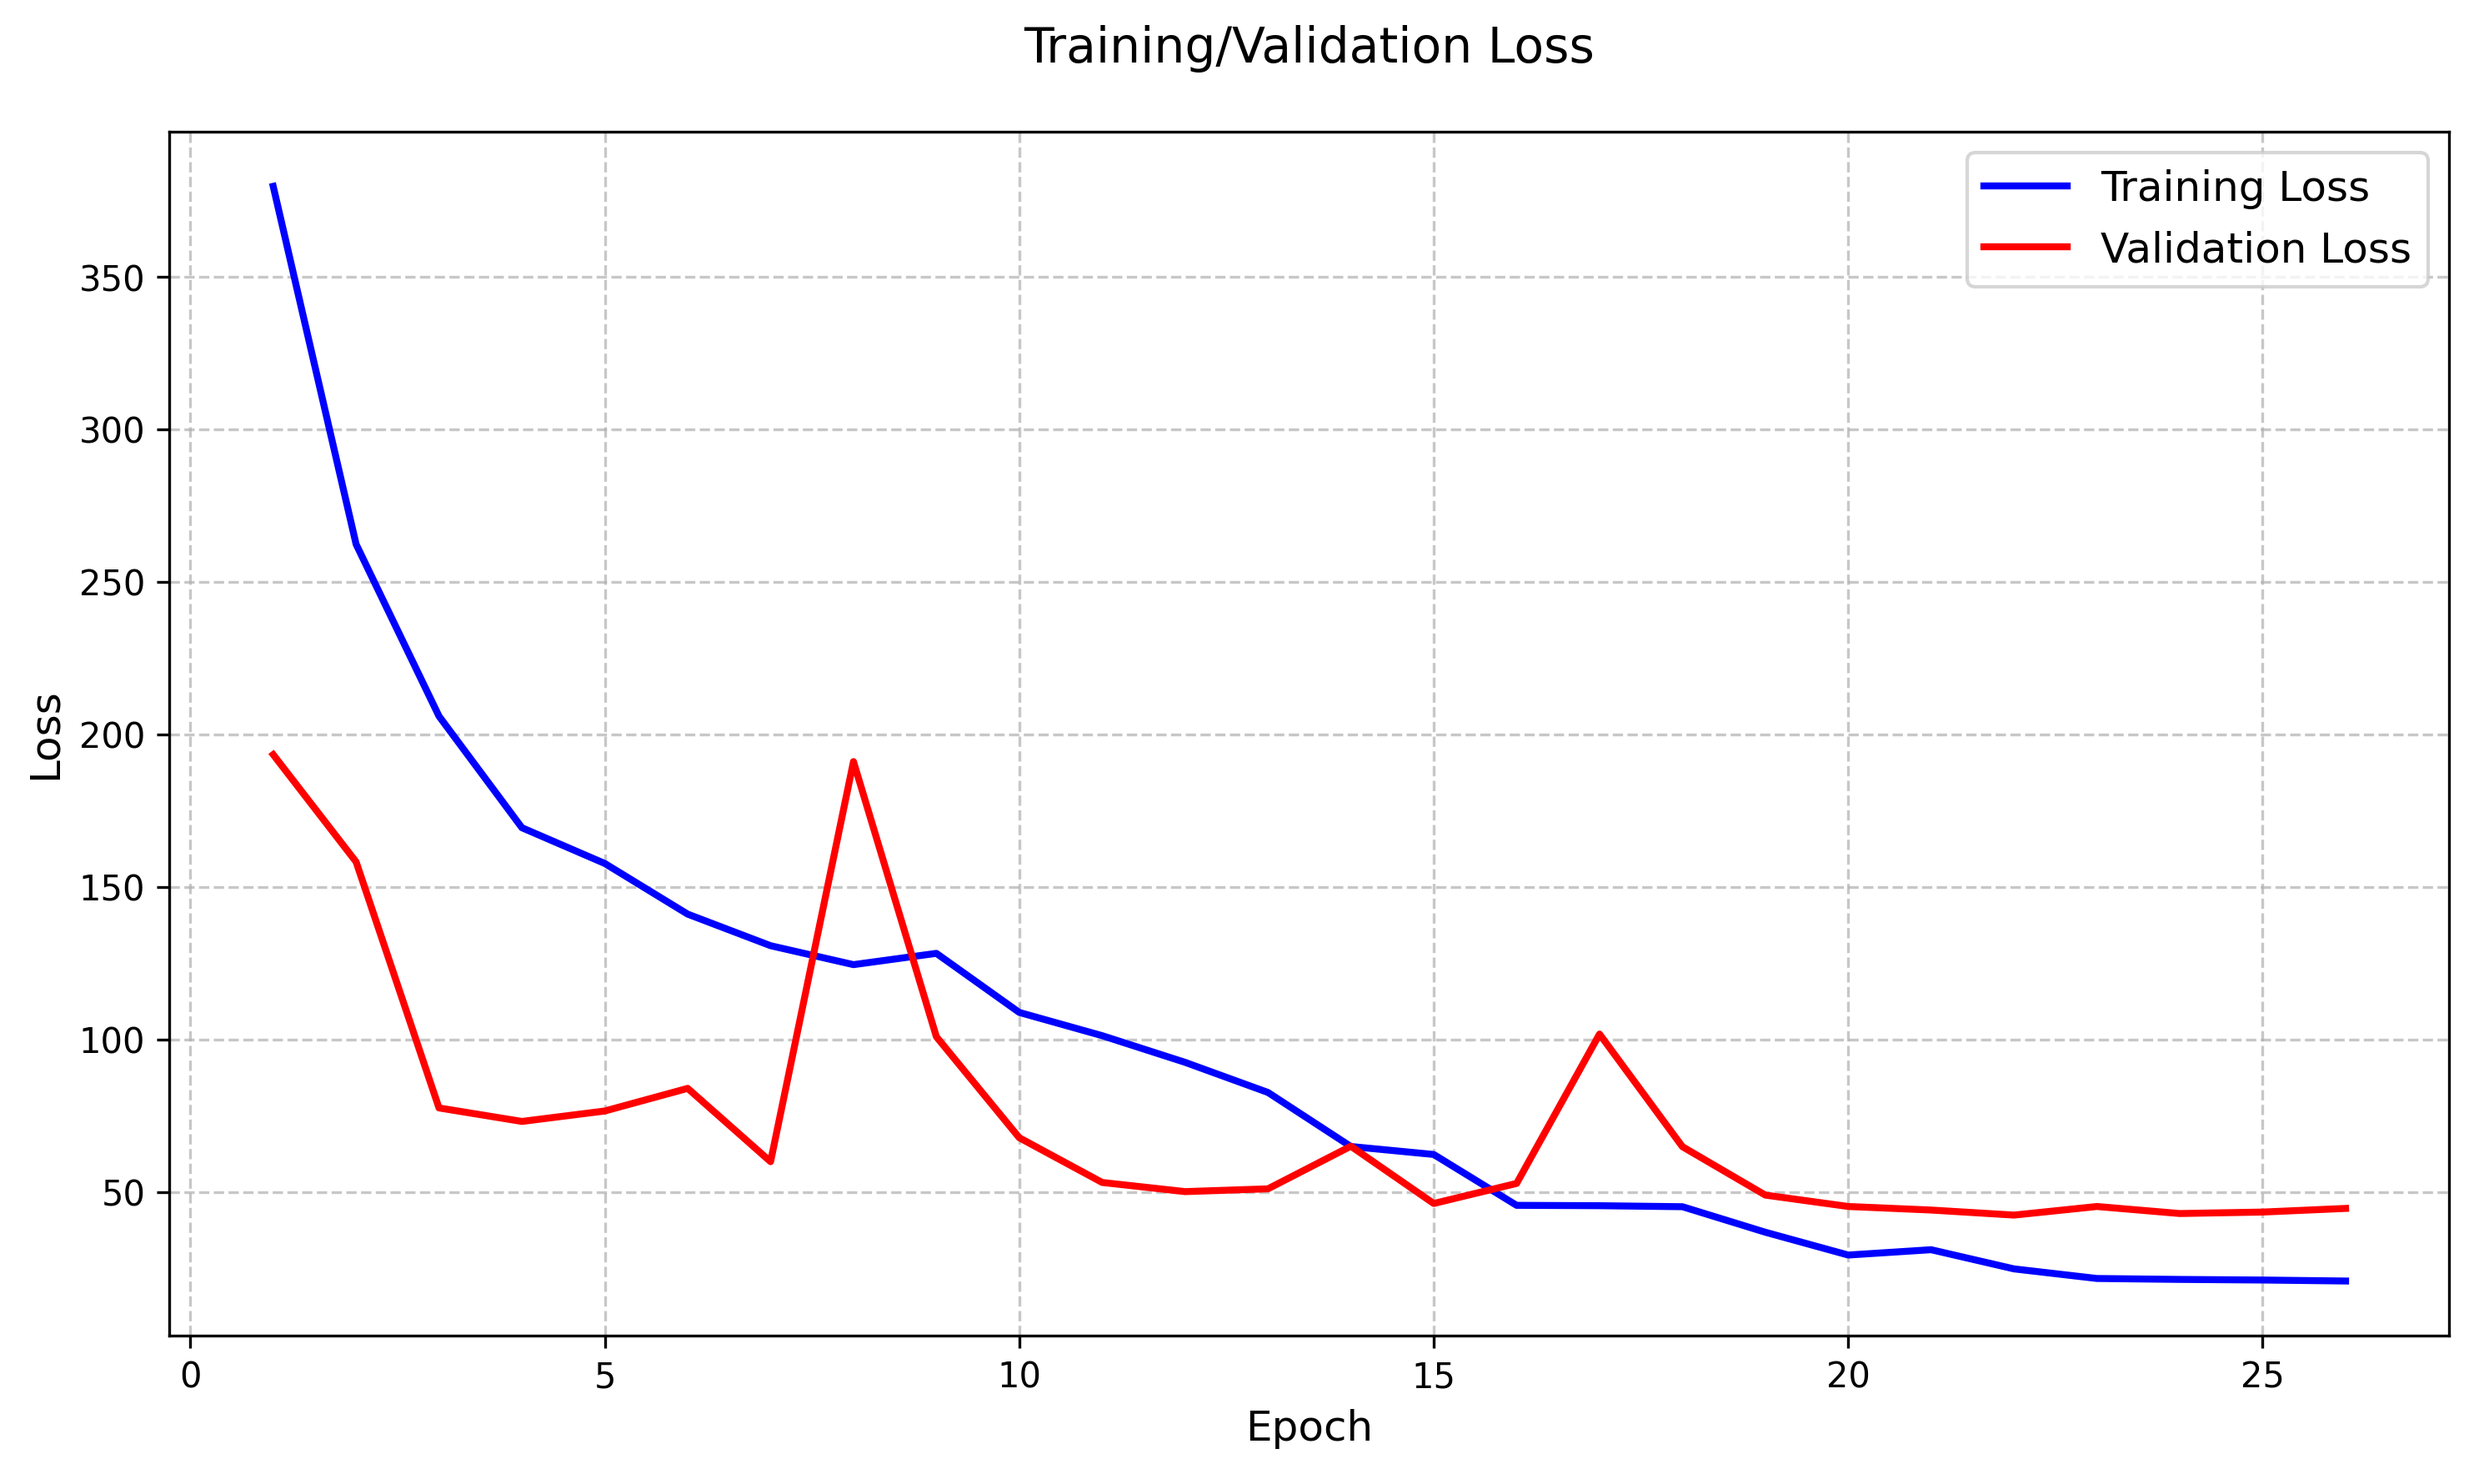
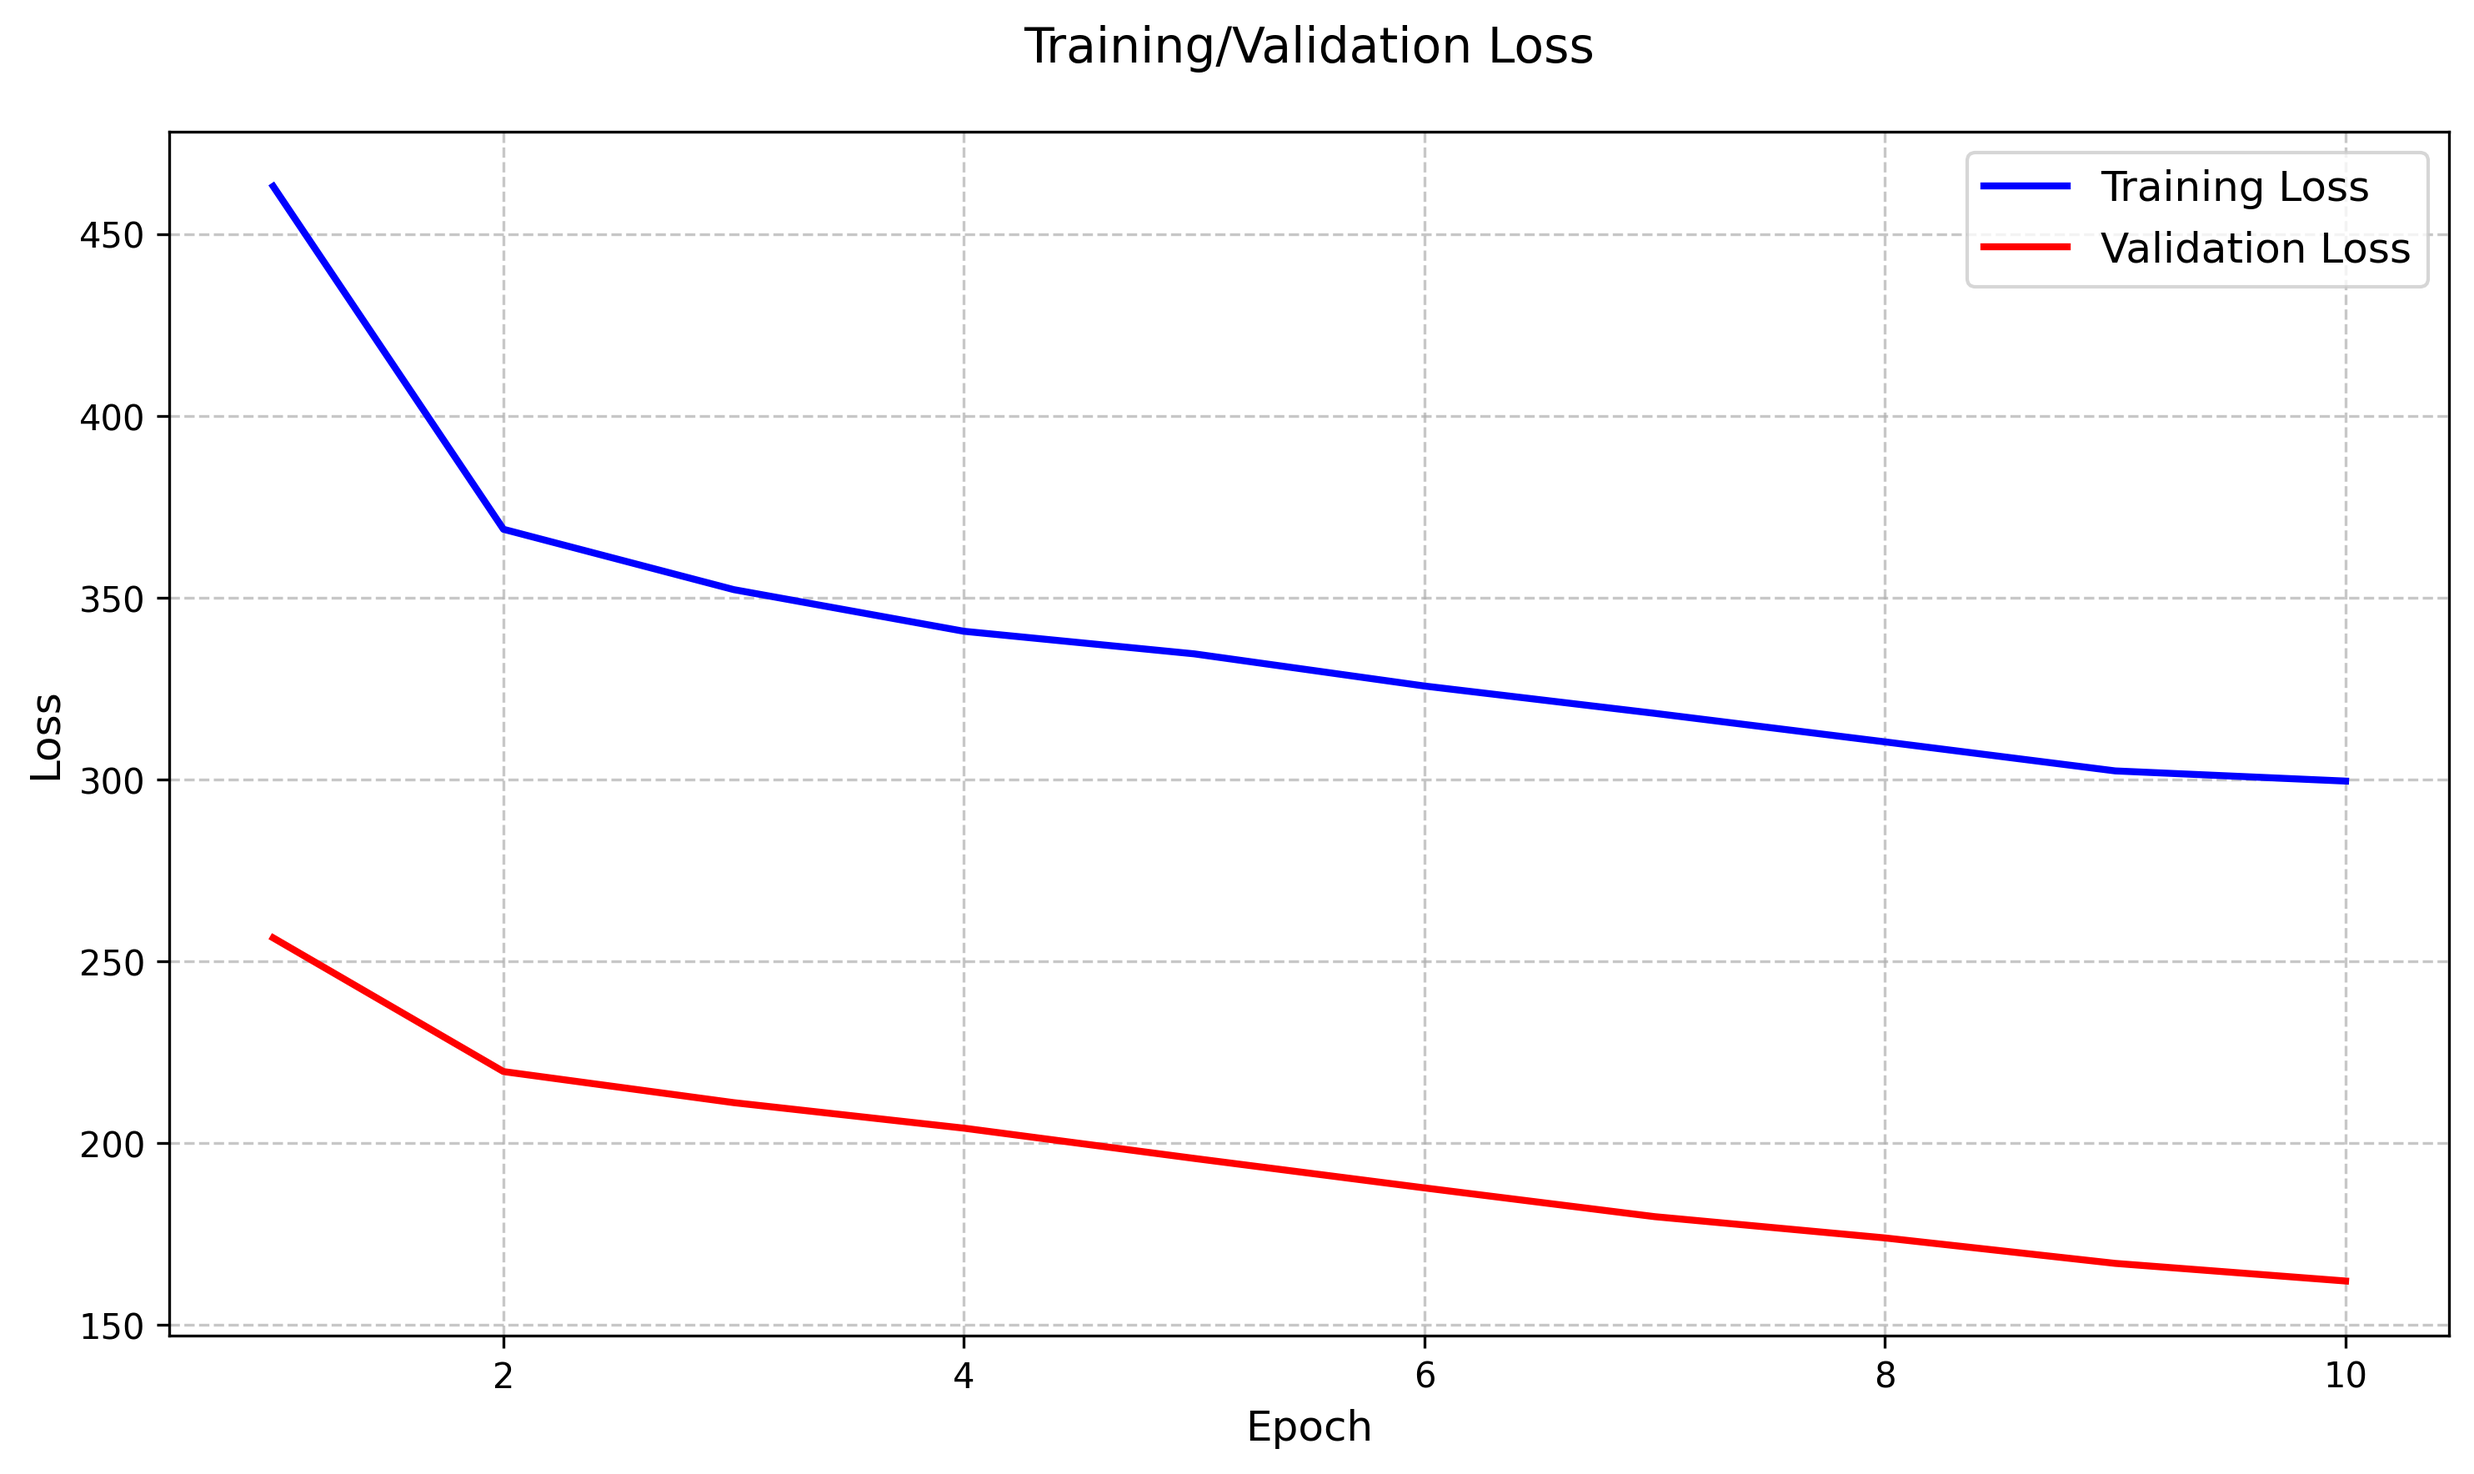
support multi_task_model

diff --git a/train.py b/train.py
@@ -4,18 +4,29 @@ from tqdm import tqdm
 import logging
 import matplotlib.pyplot as plt
 from torch.optim.lr_scheduler import ReduceLROnPlateau
-from loss import NutritionLoss, MSELoss
 
 class Trainer:
-    def __init__(self, model, train_loader, val_loader, device='cpu', 
-                 learning_rate=1e-4, weight_decay=1e-5):
+    def __init__(self, model, train_loader, val_loader, loss, device=torch.device('cpu'), 
+                 learning_rate=1e-4, weight_decay=1e-5, use_depth=True):
+        """
+        Args:
+            model: The model to train.
+            train_loader: DataLoader for training data.
+            val_loader: DataLoader for validation data.
+            device: Device to run the model on.
+            learning_rate: Learning rate for the optimizer.
+            weight_decay: Weight decay for the optimizer.
+            use_depth: Whether to use depth images in training.
+        """
         self.model = model.to(device)
         self.train_loader = train_loader
         self.val_loader = val_loader
         self.device = device
+        self.use_depth = use_depth
         
         # self.loss = NutritionLoss()
-        self.loss = MSELoss()
+        # self.loss = MSELoss()
+        self.loss = loss
         self.optimizer = optim.AdamW(
             model.parameters(), 
             lr=learning_rate, 
@@ -75,12 +86,15 @@ class Trainer:
         progress_bar = tqdm(self.train_loader, desc=f"Epoch {epoch}")
         
         for batch in progress_bar:
-            rgb_images = batch['rgb_image'].to(self.device)
-            depth_images = batch['depth_image'].to(self.device)
+            rgb_images = batch['rgb_image'].to(self.device)                
             targets = batch['nutritional_values'].to(self.device)
             
             self.optimizer.zero_grad()
-            outputs = self.model(rgb_images, depth_images)
+            if self.use_depth:
+                depth_images = batch['depth_image'].to(self.device)
+                outputs = self.model(rgb_images, depth_images)
+            else:
+                outputs = self.model(rgb_images)
             loss = self.loss(outputs, targets)
             loss.backward()
             self.optimizer.step()
@@ -101,10 +115,14 @@ class Trainer:
         with torch.no_grad():
             for batch in progress_bar:
                 rgb_images = batch['rgb_image'].to(self.device)
-                depth_images = batch['depth_image'].to(self.device)
+                
                 targets = batch['nutritional_values'].to(self.device)
                 
-                outputs = self.model(rgb_images, depth_images)
+                if self.use_depth:
+                    depth_images = batch['depth_image'].to(self.device)
+                    outputs = self.model(rgb_images, depth_images)
+                else:
+                    outputs = self.model(rgb_images)
                 loss = self.loss(outputs, targets)
                 val_loss += loss.item()
                 

diff --git a/multi_task_model.py b/multi_task_model.py
@@ -1,0 +1,63 @@
+import torch.nn as nn
+import torchvision.models as models
+
+# For the base model, we use a pretrained ResNet18 and remove its final layer.
+def get_base_model():
+    base = models.resnet18(weights=models.ResNet18_Weights.DEFAULT)
+    modules = list(base.children())[:-1]  # remove the final fc layer
+    base_model = nn.Sequential(*modules)
+    # Freeze parameters
+    for param in base_model.parameters():
+        param.requires_grad = False
+    return base_model
+
+# add branch for different categories of nutrition
+class Branch(nn.Module):
+    def __init__(self, in_features):
+        super(Branch, self).__init__()
+        self.fc1 = nn.Linear(in_features, 64)
+        self.relu = nn.ReLU()
+        self.dropout = nn.Dropout(0.5)
+        self.fc2 = nn.Linear(64, 1)
+
+    def forward(self, x):
+        x = self.fc1(x)
+        x = self.relu(x)
+        x = self.dropout(x)
+        x = self.fc2(x)
+        return x
+    
+
+# Multi-task model that attaches branches for each output.
+class MultiTaskModel(nn.Module):
+    def __init__(self, base_model, in_features, portion_independent=False):
+        super(MultiTaskModel, self).__init__()
+        self.base_model = base_model
+        self.portion_independent = portion_independent
+        self.protein_branch = Branch(in_features)
+        self.fat_branch = Branch(in_features)
+        self.carbs_branch = Branch(in_features)
+        if not portion_independent:
+            self.mass_branch = Branch(in_features)
+
+    def forward(self, x):
+        features = self.base_model(x)  # e.g., shape (batch, 512, 1, 1)
+        features = features.view(features.size(0), -1)  # flatten to (batch, 512)
+        protein = self.protein_branch(features)
+        fat = self.fat_branch(features)
+        carbs = self.carbs_branch(features)
+        outputs = {'protein': protein, 'fat': fat, 'carbs': carbs}
+        if not self.portion_independent:
+            mass = self.mass_branch(features)
+            outputs['mass'] = mass
+        return outputs
+    
+
+# example of use of the models
+# base_model = get_base_model()
+# in_features = 512  # for resnet18
+# direct_regression = MultiTaskModel(base_model, in_features, portion_independent=False).to(device)
+# portion_independent_model = MultiTaskModel(base_model, in_features, portion_independent=True).to(device)
+
+# sample input
+# dataloader of dataset (food RGB images as input and nutrition amount as output)

diff --git a/run.py b/run.py
@@ -5,6 +5,8 @@ from model import ResNet51
 from train import Trainer
 import logging
 from utils import setup_logging, get_device
+from loss import NutritionLoss, MSELoss, MSEMultiTaskLoss
+from multi_task_model import MultiTaskModel, get_base_model
 
 def get_transforms():
     # RGB normalization (ImageNet stats)
@@ -54,19 +56,26 @@ def main():
     val_loader = DataLoader(val_dataset, batch_size=16, shuffle=False, num_workers=4)
     
     # Initialize model and trainer
-    model = ResNet51()
+    # model = ResNet51().to(device)
+    base_model = get_base_model()
+    in_features = 512  # for resnet18
+    portion_independent = False
+    model = MultiTaskModel(base_model, in_features, portion_independent=portion_independent).to(device)
+
     trainer = Trainer(
         model=model,
         train_loader=train_loader,
         val_loader=val_loader,
         device=device,
+        loss = MSEMultiTaskLoss(portion_independent),
         learning_rate=1e-4,
-        weight_decay=1e-5
+        weight_decay=1e-5,
+        use_depth=False,
     )
     
     # Train the model
     logging.info("Starting training...")
-    trainer.train(num_epochs=100)
+    trainer.train(num_epochs=10)
     logging.info("Training completed")
 
 if __name__ == '__main__':

diff --git a/loss.py b/loss.py
@@ -5,7 +5,7 @@ from utils import get_device
 class MSELoss(nn.Module):
     def __init__(self):
         super().__init__()
-        self.mse_loss = nn.MSELoss()
+        # self.mse_loss = nn.MSELoss()
     
     def forward(self, outputs, targets):
         diff = outputs - targets
@@ -13,6 +13,23 @@ class MSELoss(nn.Module):
         # Return mean of squared differences
         return (diff ** 2).mean()
 
+class MSEMultiTaskLoss(nn.Module):
+    def __init__(self, portion_independent=False):
+        super().__init__()
+        # self.mse_loss = nn.MSELoss()
+        self.portion_independent = portion_independent
+    
+    def forward(self, outputs, targets):
+        if self.portion_independent:
+            outputs = torch.cat([outputs['mass'], outputs['fat'], outputs['carbs'], outputs['protein']], dim=1)
+            diff = outputs - targets
+        else:
+            outputs = torch.cat([outputs['fat'], outputs['carbs'], outputs['protein']], dim=1)
+            diff = outputs - targets[:, 1:]
+        diff[:, 0] = diff[:, 0] / 10
+        # Return mean of squared differences
+        return (diff ** 2).mean()
+    
 class NutritionLoss(nn.Module):
     def __init__(self, initial_scales=None):
         super().__init__()
